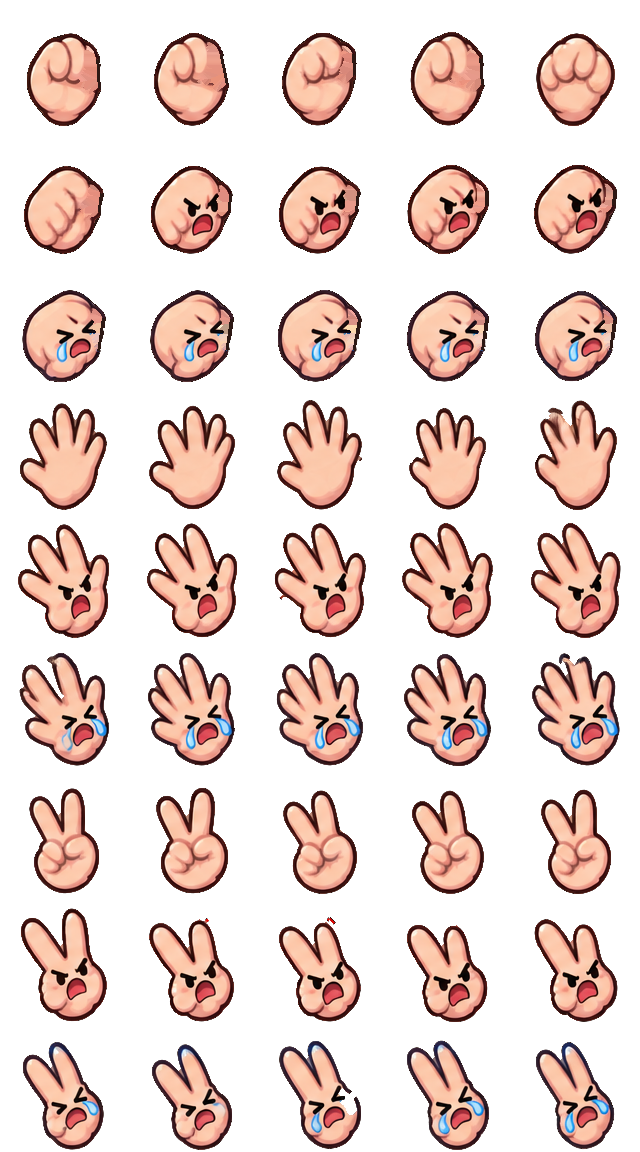
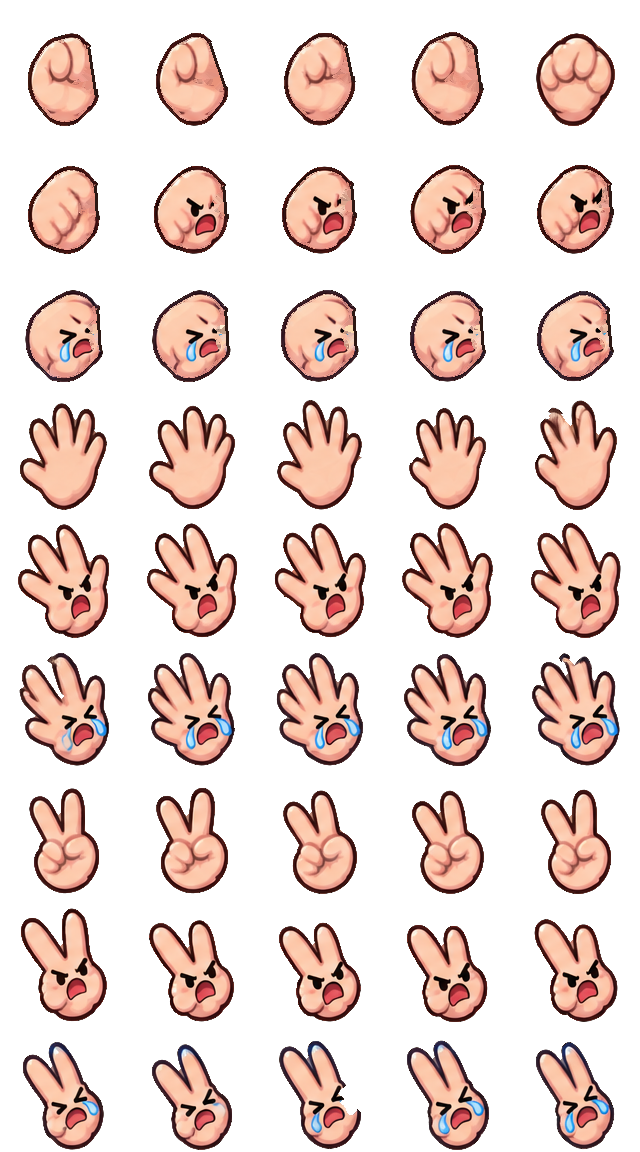
Cleaner hand sprites, slower units
- Sprite cut-outs: only very dark, non-red pixels count as outline (keeps
  navy outlines, drops anger marks); thin strokes sticking out of the
  hand are trimmed; the doubled line inside patched fists is painted over.
- Units walk about a third slower (hops slowed to match).

Claude-Session: https://claude.ai/code/session_01R2EQohRet1QfgKEYwNZLap

diff --git a/tools/cut_hand_sprites.py b/tools/cut_hand_sprites.py
@@ -20,6 +20,10 @@ skin = (R > 170) & (G > 110) & ((R - B) > 35) & (R >= G)
 OUTLINE = 80      # darker than this next to a hand = its outline
 SOFT = 110        # between OUTLINE and SOFT = half-transparent edge
 OUTLINE_RGB = np.array([45, 24, 20])
+# The outline is very dark (brown, or navy on some frames). Red anger marks
+# are dark by brightness but have a bright red channel, so they're excluded.
+# (Blue motion lines are much lighter, so they never count as outline.)
+outline_px = (lum < OUTLINE) & (np.max(im, axis=2) < 130)
 
 lab, n = ndi.label(strict)
 sizes = ndi.sum(strict, lab, range(1, n + 1)); objs = ndi.find_objects(lab)
@@ -62,15 +66,21 @@ for k, clusters in enumerate(frames_by_row):
         # The dark outline is the boundary: bright skin + nearby dark outline,
         # tiny gaps closed, then everything inside filled (shaded skin, faces).
         core = np.isin(lab, cl['ids'])
-        dark = (lum < OUTLINE) & ndi.binary_dilation(core, iterations=14) & mine
+        dark = outline_px & ndi.binary_dilation(core, iterations=14) & mine
         shape = ndi.binary_closing(core | dark, iterations=2)
         solid = ndi.binary_fill_holes(shape) & mine
         lb, nb = ndi.label(solid)
         if nb > 1:
             keep = np.unique(lb[core & solid]); keep = keep[keep > 0]
             solid = np.isin(lb, keep)
-        # Drop thin dark specks that aren't attached to the outline ring.
-        solid = ndi.binary_opening(solid, iterations=1) | (solid & ndi.binary_dilation(core, iterations=3))
+        # Trim thin strokes sticking out of the silhouette (motion curls,
+        # ghost marks): anything thinner than ~6 px that isn't hand.
+        disk = ndi.generate_binary_structure(2, 1)
+        opened = ndi.binary_opening(solid, structure=disk, iterations=3)
+        solid = opened | (solid & ndi.binary_dilation(core, iterations=2))
+        lb, nb = ndi.label(solid)
+        if nb > 1:
+            sz = ndi.sum(solid, lb, range(1, nb + 1)); solid = lb == (np.argmax(sz) + 1)
         # Rock (a convex fist): patch notches where the artwork's outline is
         # open, by filling to the convex outline, painting skin from the
         # surrounding hand and outline along the patch's edge.
@@ -97,6 +107,12 @@ for k, clusters in enumerate(frames_by_row):
             _, (iy, ix) = ndi.distance_transform_edt(~skin_px, return_indices=True)
             rgb[patch] = src[iy[patch], ix[patch]]
             rgb[patch_edge] = OUTLINE_RGB
+            # The art's own broken outline now sits inside the patched fist,
+            # doubling the line: paint it over with nearby skin.
+            band = solid & ~ndi.binary_erosion(solid, iterations=4)
+            near_patch = ndi.binary_dilation(patch | patch_edge, iterations=7)
+            stray = solid & ~band & near_patch & (lum < 120) & ~patch
+            rgb[stray] = src[iy[stray], ix[stray]]
         ys, xs = np.nonzero(alpha > 0)
         y0, y1, x0, x1 = ys.min(), ys.max() + 1, xs.min(), xs.max() + 1
         rgba = np.dstack([rgb[y0:y1, x0:x1], alpha[y0:y1, x0:x1] * 255]).astype(np.uint8)
